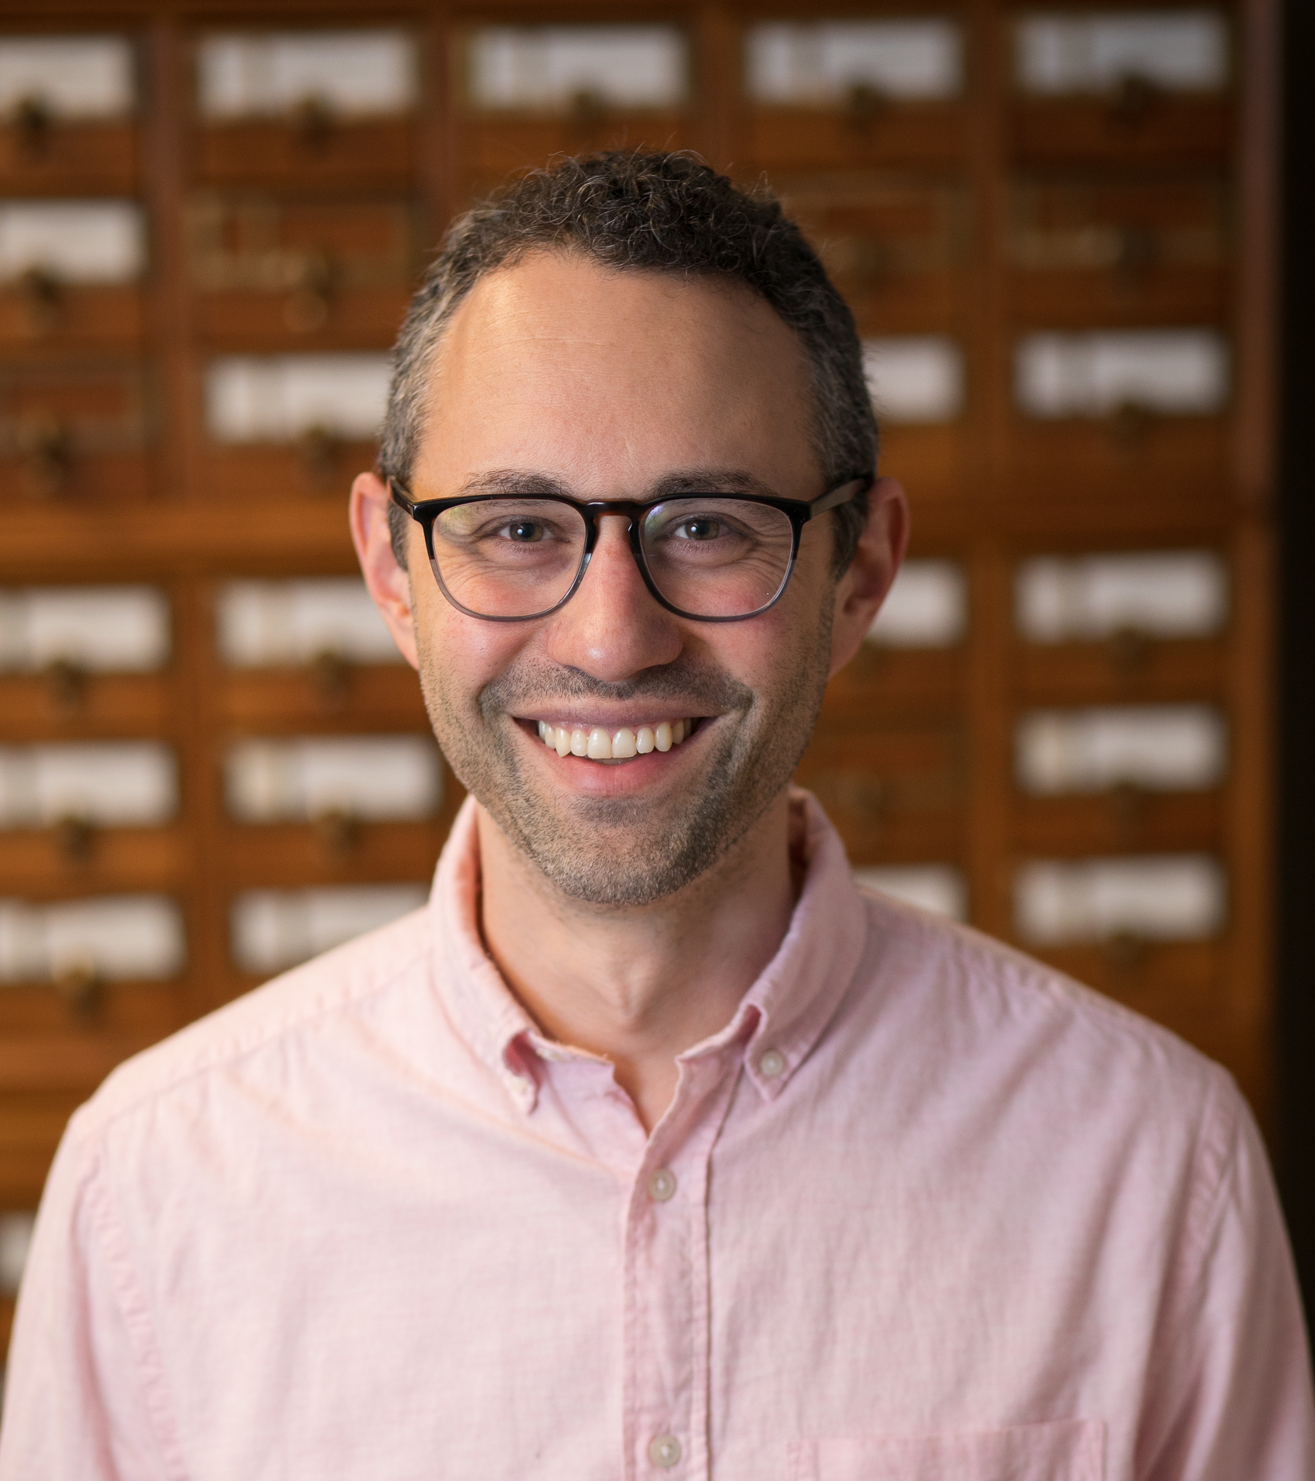
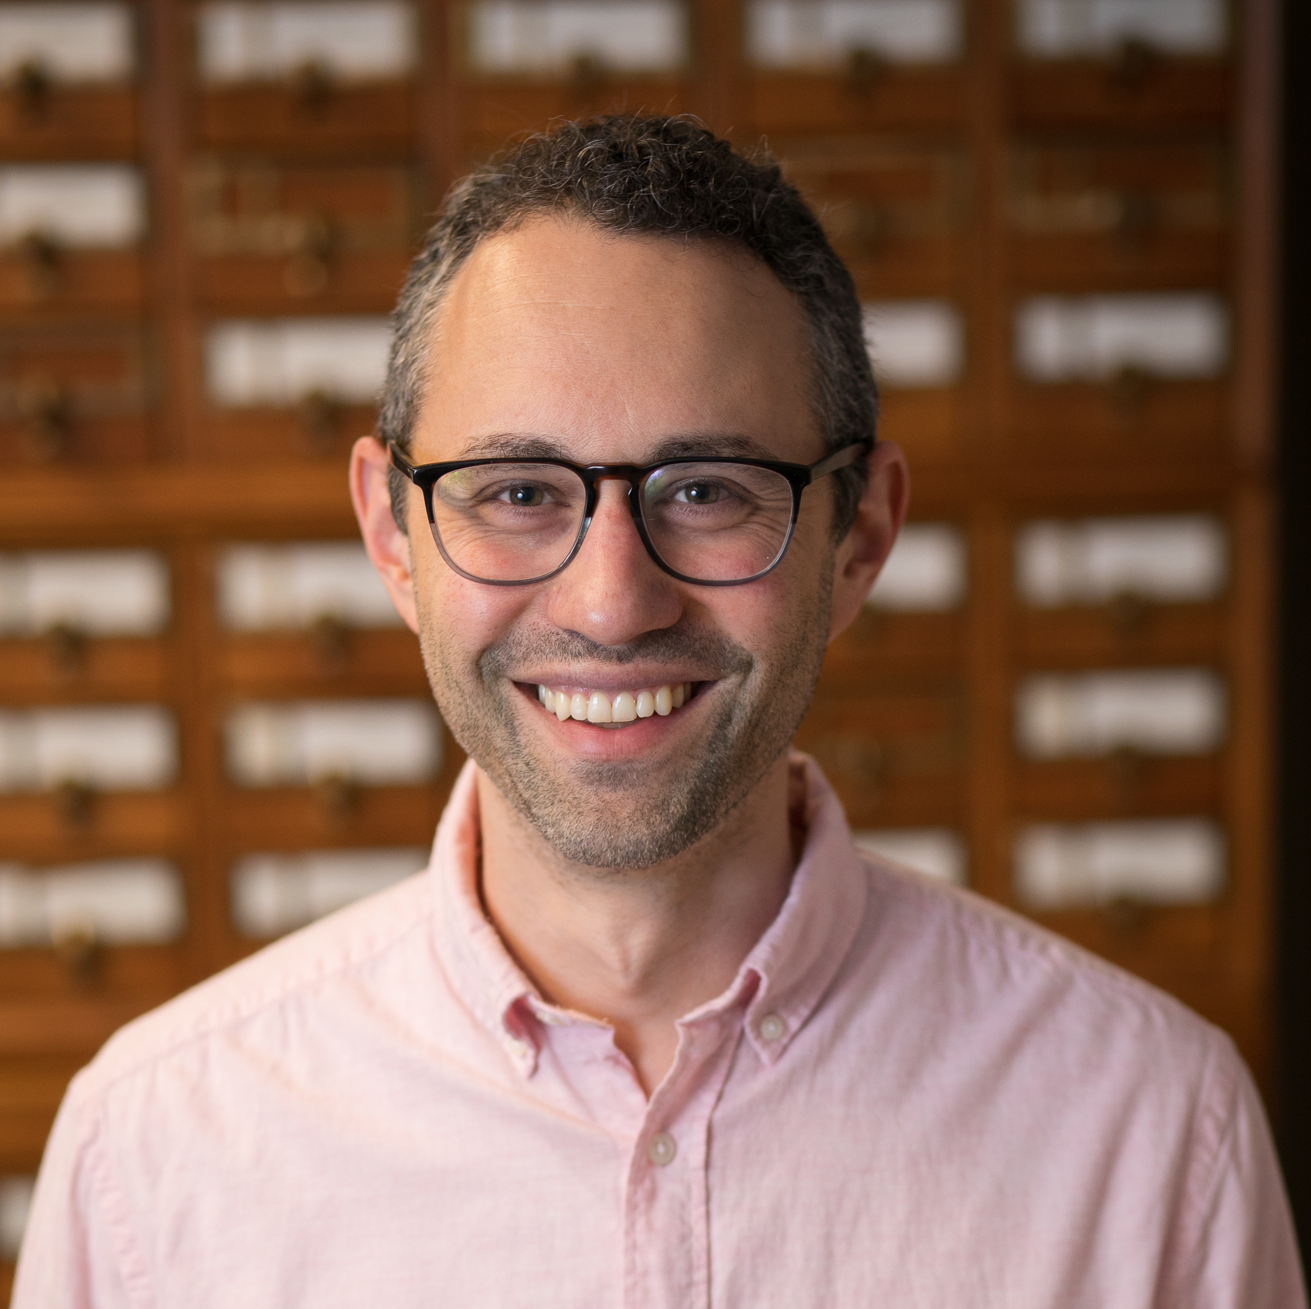
The about us page image resixed

diff --git a/about.html b/about.html
@@ -80,12 +80,12 @@
             </div>
             <div class="person">
               <div class="imageWrapper">
-                <img class="imageClass" src="./assets//images/jhonnie.jpeg" />
+                <img class="imageClass" src="./assets//images/Johnnie_Kallas.jpg" />
               </div>
               <div class="infoWrapper">
                 <h3 class="nameInfo">Johnnie Kallas</h3>
                 <div class="roleInfo">Phd Student</div>
-                <div class="descInfo"></div>
+                <div class="descInfo">Johnnie Kallas is a third year PhD student in the Department of Labor Relations, Law, and History at Cornell University’s ILR School. His research focuses on strikes and labor militancy in the United States, with a focus in healthcare. He also worked as a labor organizer for three years before enrolling in graduate school. He serves as the project director for the Labor Action Tracker.</div>
               </div>
             </div>
           </div>
@@ -114,7 +114,7 @@
           <div class="personRow ">
             <div class="person">
               <div class="imageWrapper">
-                <img class="imageClass" src="./assets//images/Ankit.jpg" />
+                <img class="imageClass" src="./assets//images/Ankit_Mehta.jpg" />
               </div>
               <div class="infoWrapper">
                 <h3 class="nameInfo">Ankit Mehta</h3>
